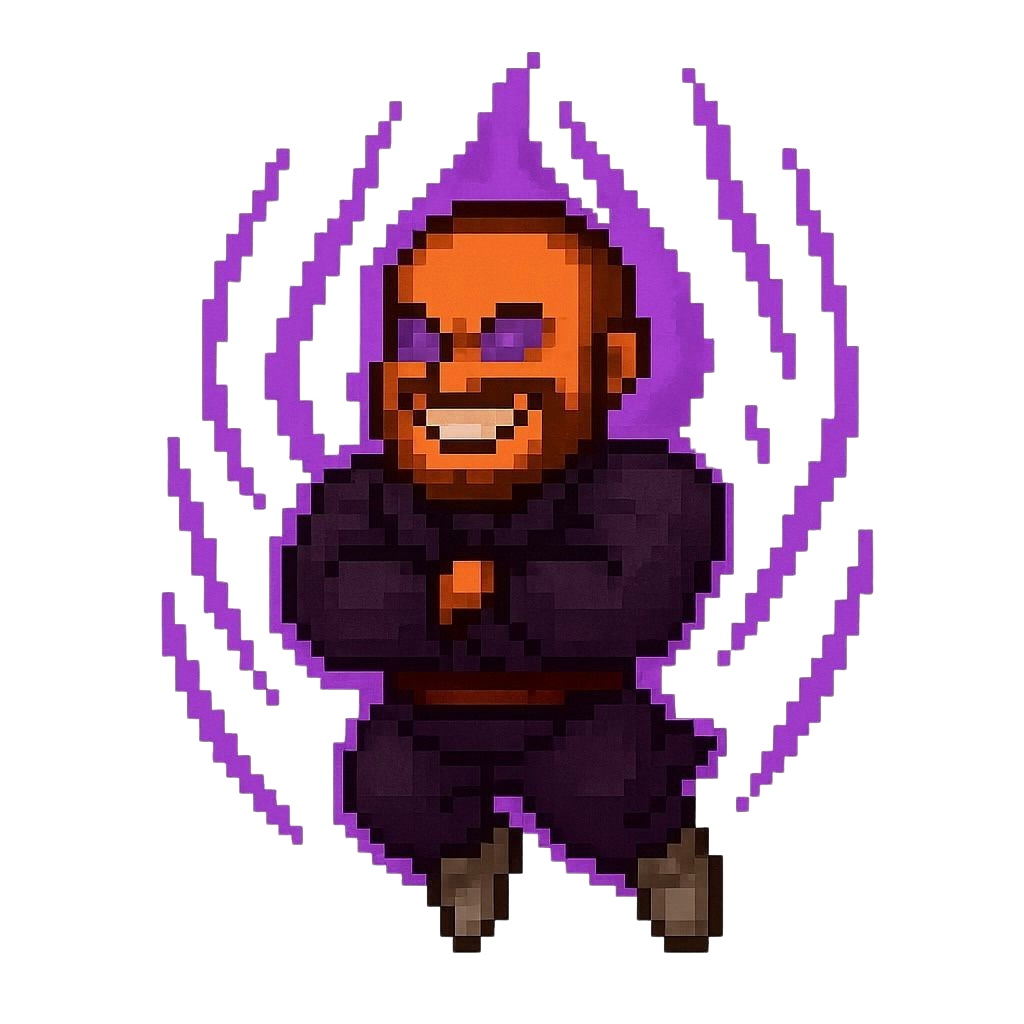
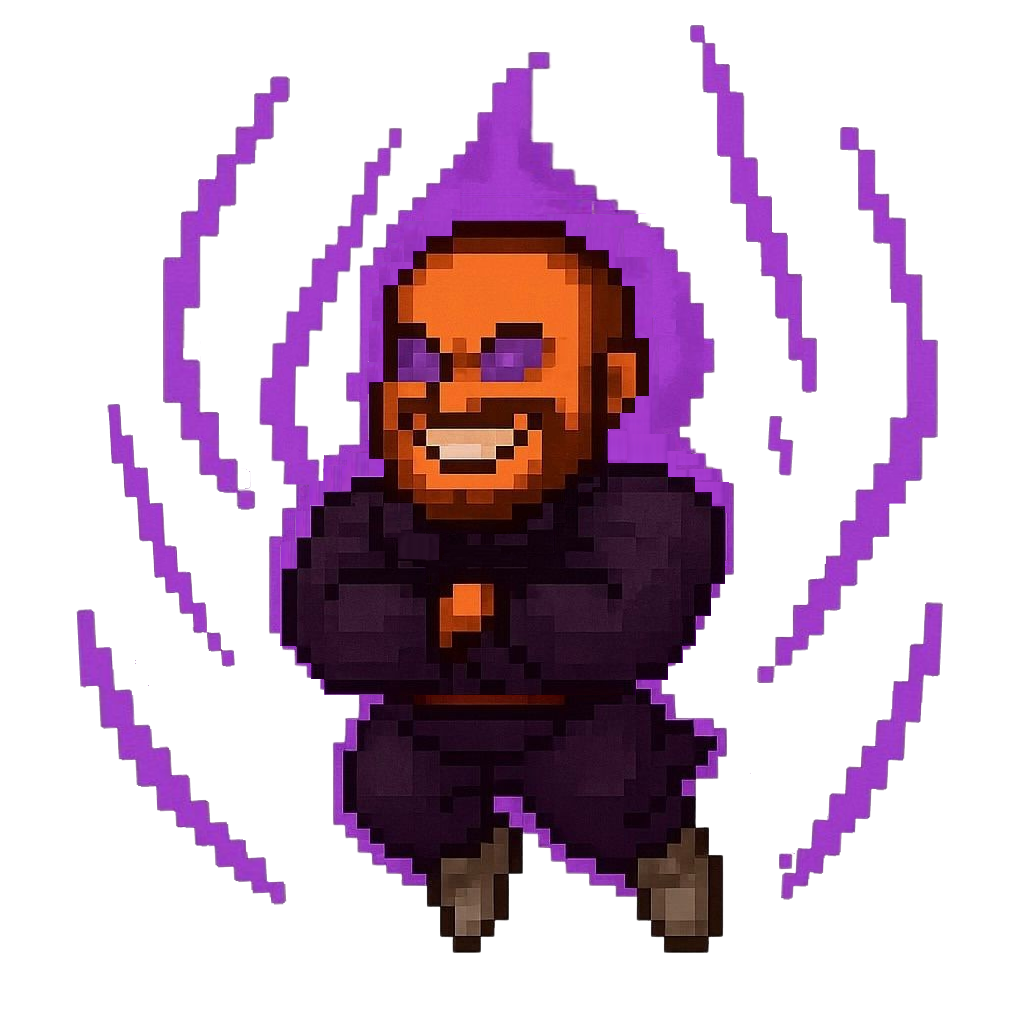
arrumando o ultimo boss, imagens e animações (murilo ajudou)

Changed region(s): [[0.0625, 0.0312, 0.9375, 0.9062], [0.75, 0.5938, 0.9375, 0.875], [0.25, 0.6562, 0.2812, 0.6875]]

diff --git a/jogo-vue-base/src/components/BossBase.vue b/jogo-vue-base/src/components/BossBase.vue
@@ -4,7 +4,7 @@
     :src="currentSprite"
     alt="Chefão"
     class="boss"
-    :style="{ left: initialX + 'px' }"
+    :style="{ left: x + 'px', bottom: props.bottomOffset + 'px' }"
   />
 </template>
 
@@ -28,6 +28,10 @@ const props = defineProps({
   attackSrc: {
     type: String,
     required: true,
+  },
+  bottomOffset: {
+    type: Number,
+    default: 0, // por padrão, não sobe nada
   },
 });
 

diff --git a/jogo-vue-base/src/components/Boss4.vue b/jogo-vue-base/src/components/Boss4.vue
@@ -6,6 +6,7 @@
     src1="/fase4/boss.png"
     src2="/fase4/boss2.png"
     attackSrc="/fase4/bossatk.png"
+    :bottomOffset="200"
     @update:x="onUpdateX"
   />
 </template>
